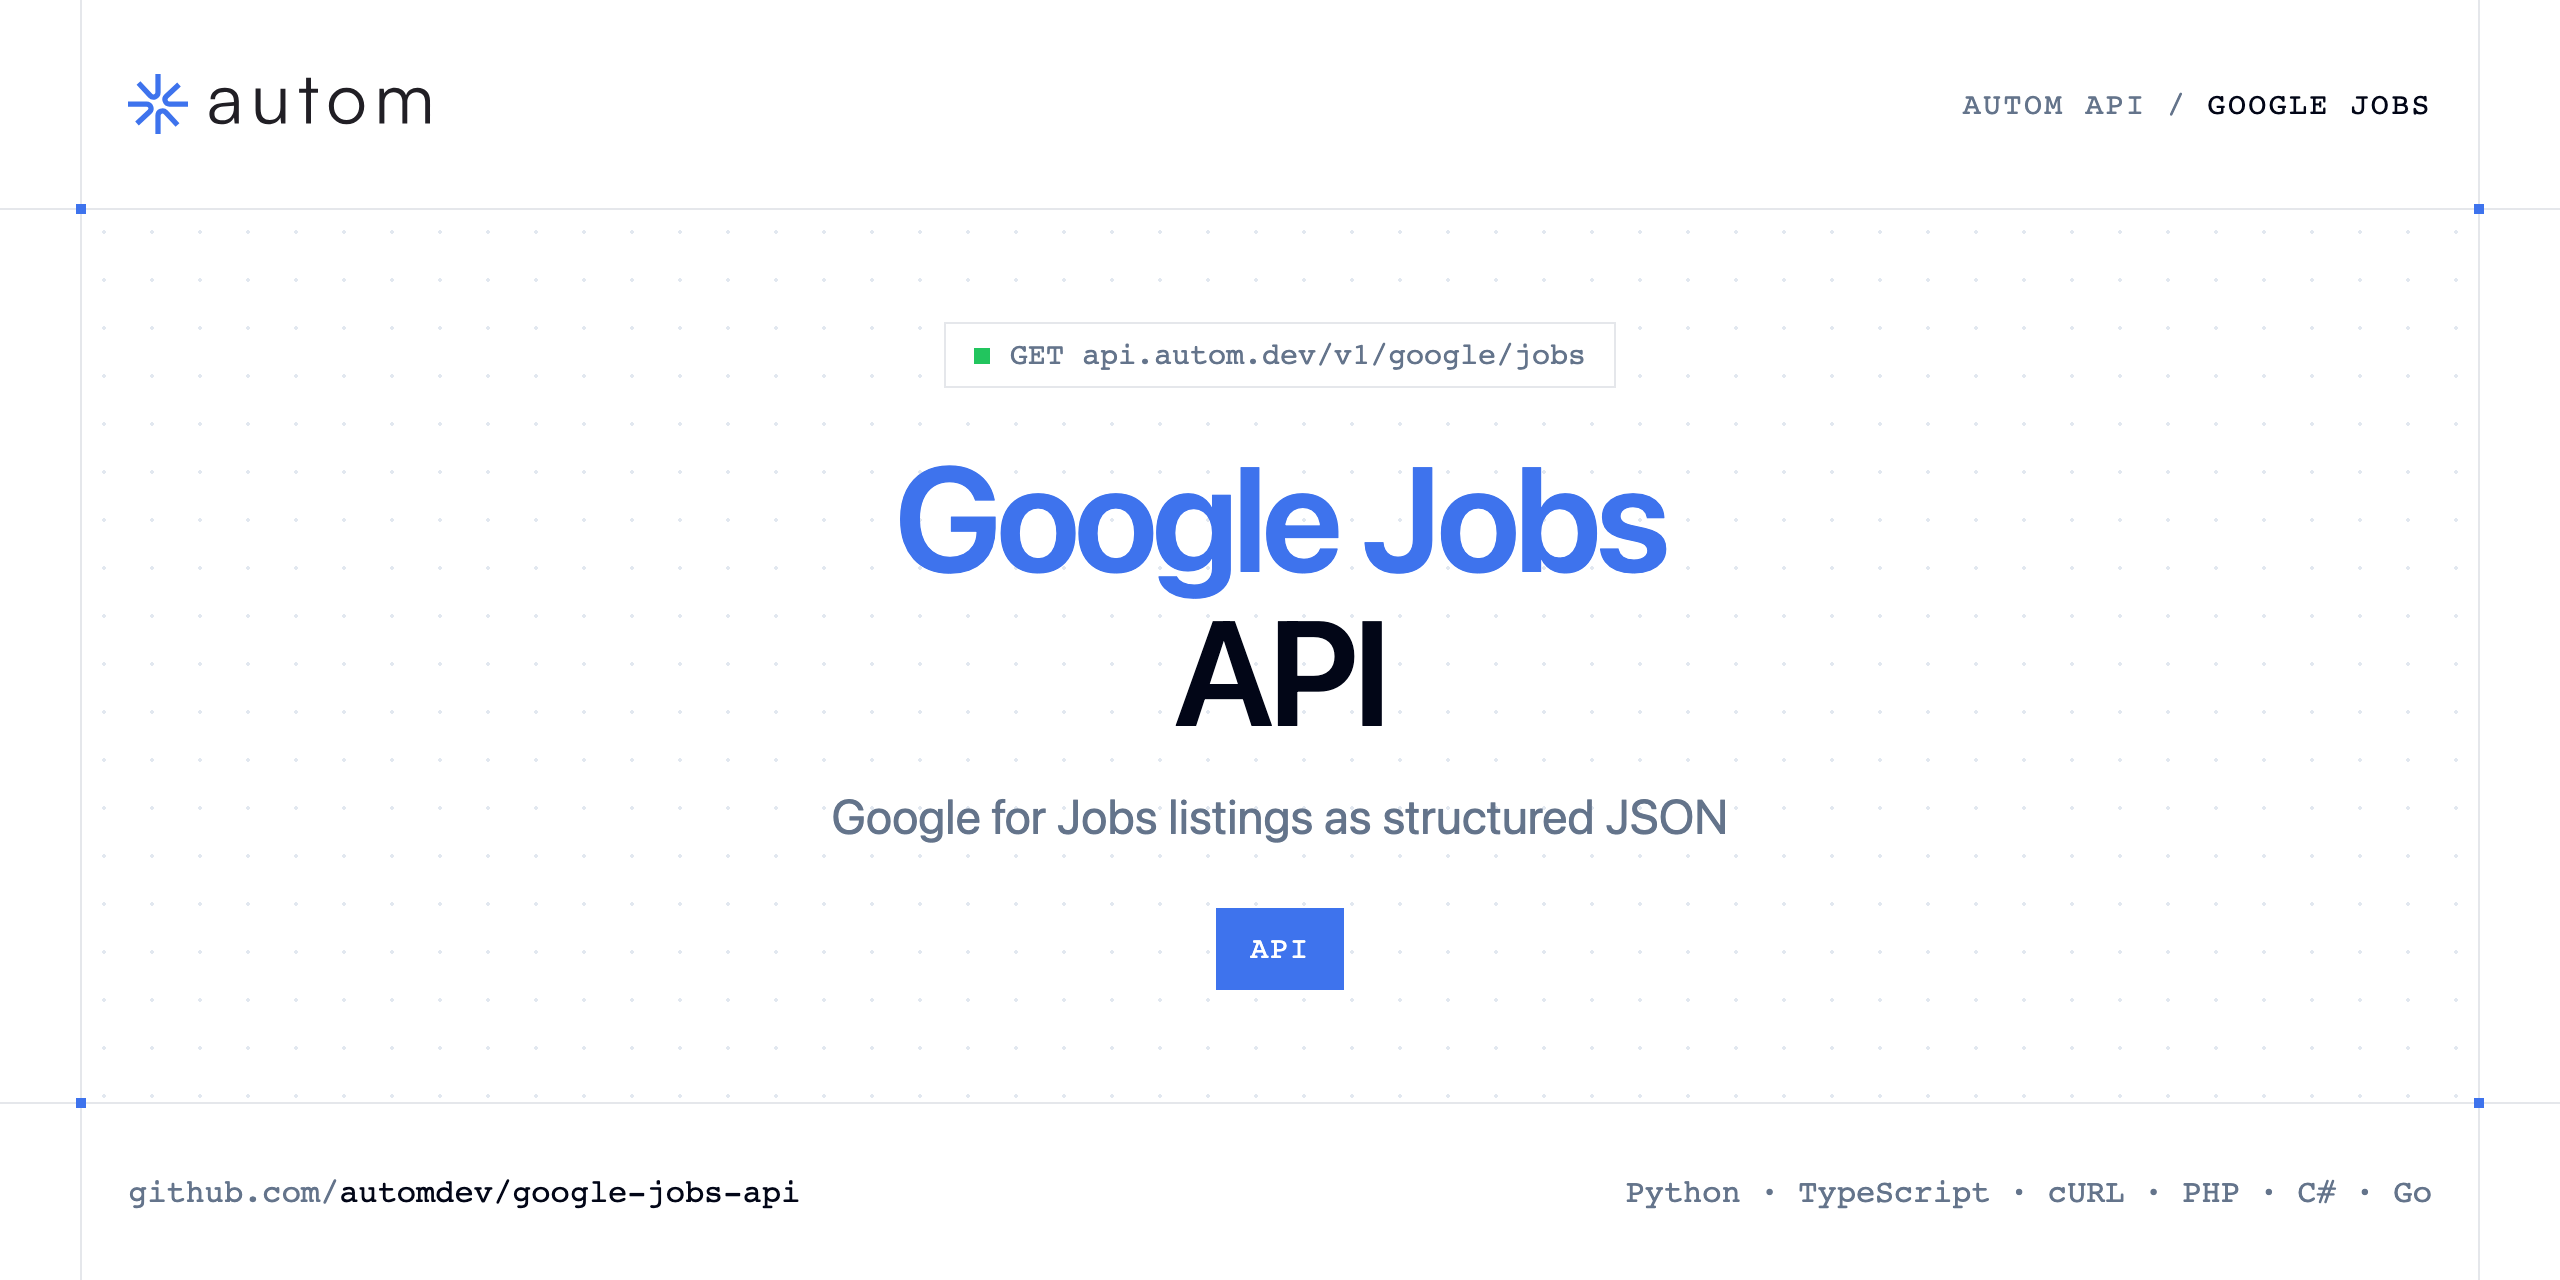
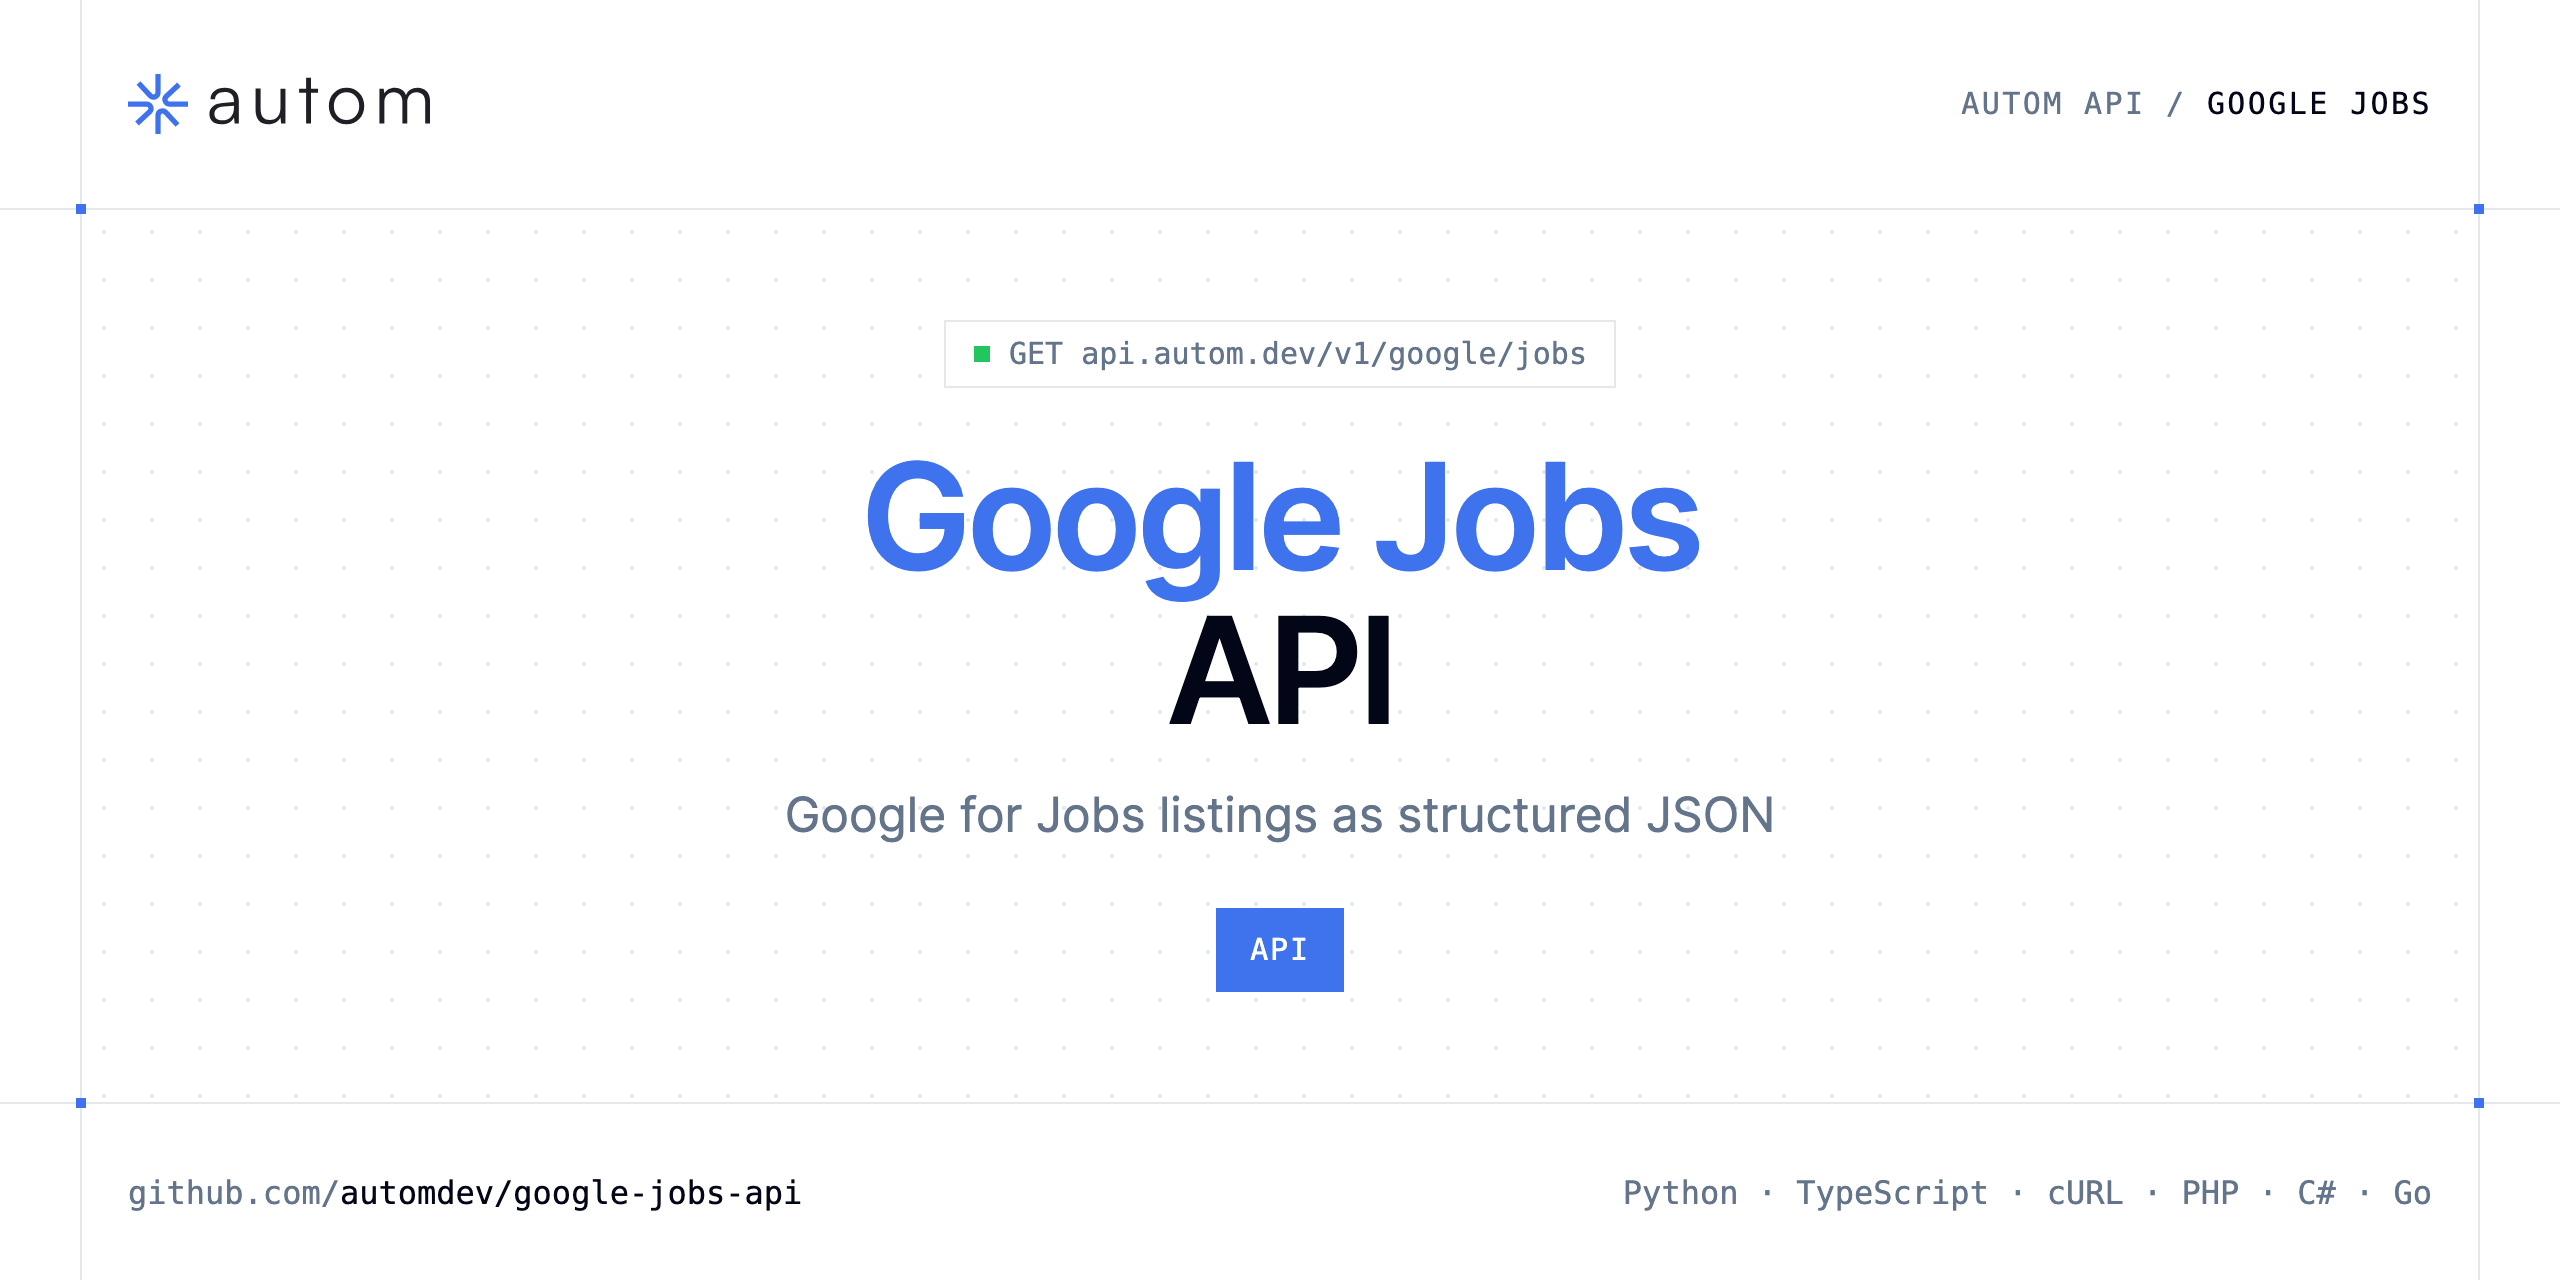
Update Google Jobs API examples and docs

diff --git a/README.md b/README.md
@@ -137,7 +137,7 @@ Example response from the API reference, abridged.
       "location": "Staten Island, NY",
       "extensions": [
         "2 days ago",
-        "19–21 an hour"
+        "19-21 an hour"
       ],
       "share_link": "https://www.google.com/search?ibp=htl;jobs&q=barista+new+york&htidocid=dQNDMQ_R7Yww_6YHAAAAAA%3D%3D&hl=en-US&shndl=37&shmd=H4sIAAAAAAAA_x…",
       "company_name": "Velocci Cafe"
@@ -149,7 +149,7 @@ Example response from the API reference, abridged.
       "location": "Brooklyn, NY",
       "extensions": [
         "3 days ago",
-        "16.50–17.00 an hour"
+        "16.50-17.00 an hour"
       ],
       "share_link": "https://www.google.com/search?ibp=htl;jobs&q=barista+new+york&htidocid=ljb56FK5QU7U3YEtAAAAAA%3D%3D&hl=en-US&shndl=37&shmd=H4sIAAAAAAAA_x…",
       "company_name": "The Showroom Bakehouse"
